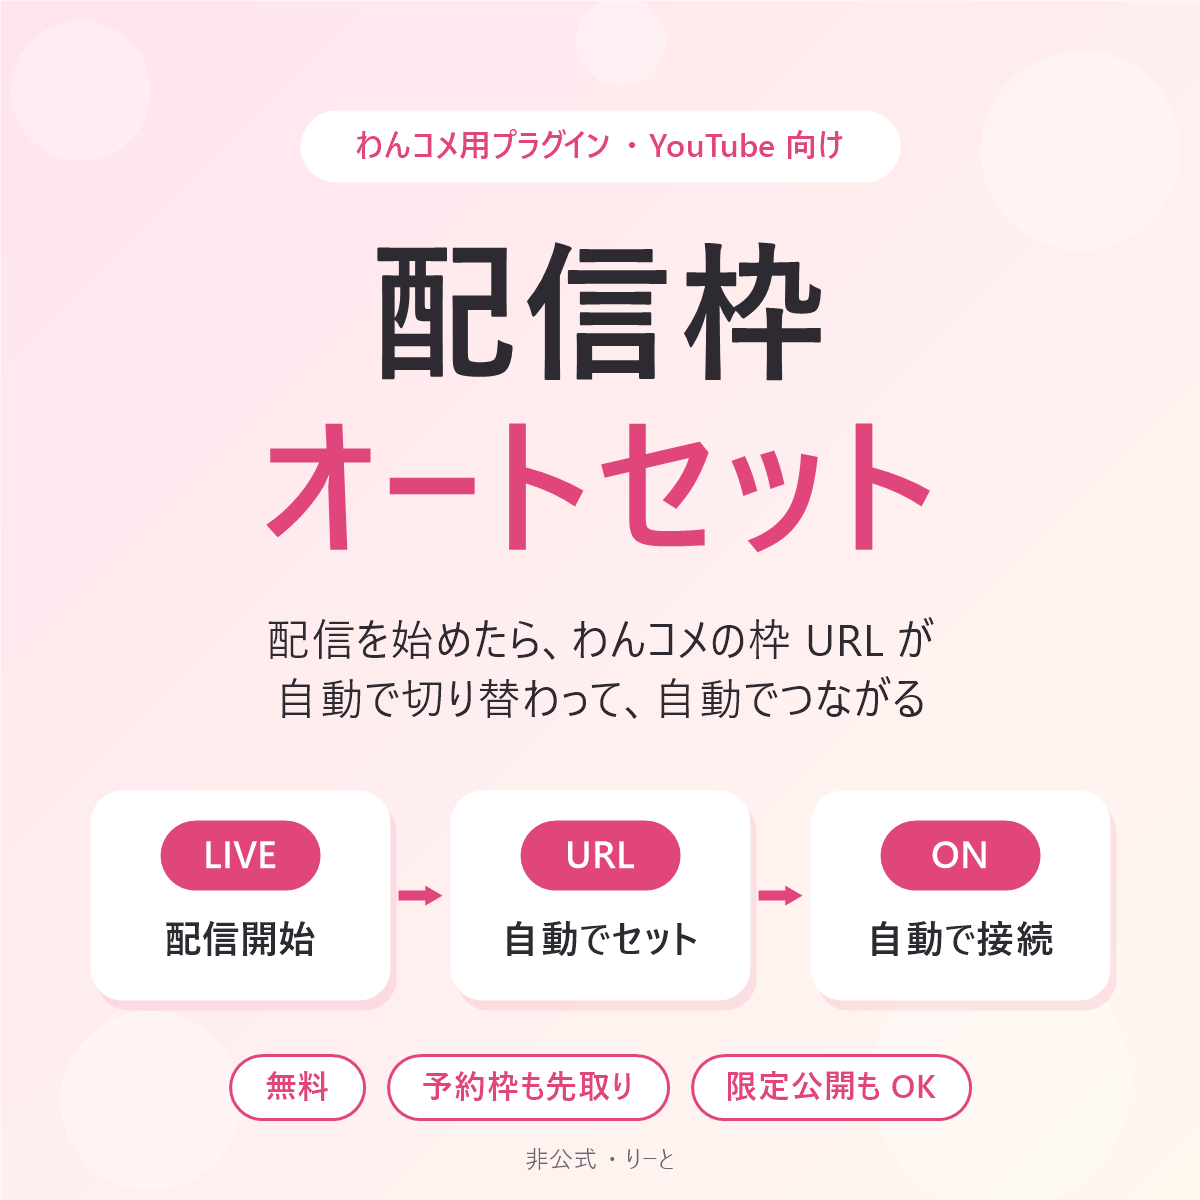
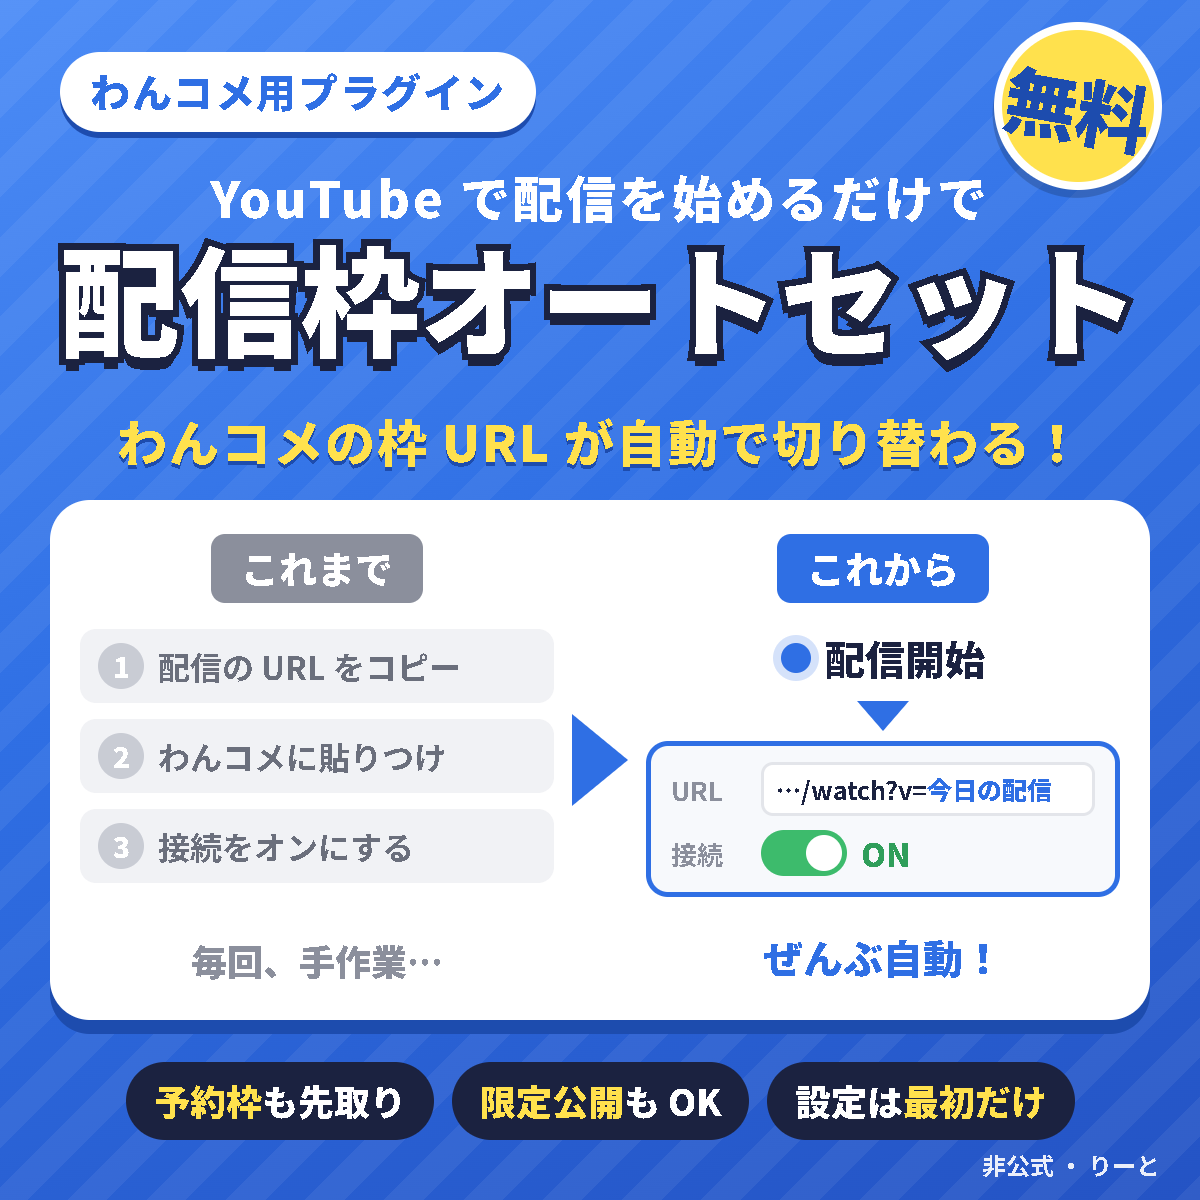
docs(booth): 商品画像を作り直す
BOOTH で人気のわんコメプラグインの傾向（濃い背景・極太の商品名・Before/After）に合わせ、青の配色で作り直した。
画像は HTML（thumbnail.html）からヘッドレス Edge で書き出す。フォントは Noto Sans JP（OFL）。

diff --git a/docs/booth/thumbnail.html b/docs/booth/thumbnail.html
@@ -1,0 +1,177 @@
+<!doctype html>
+<html lang="ja">
+<head>
+<meta charset="utf-8">
+<style>
+  @font-face { font-family: "NotoJP"; src: local("Noto Sans JP Black"), local("NotoSansJP-Black"); font-weight: 900; }
+  @font-face { font-family: "NotoJP"; src: local("Noto Sans JP Bold"), local("NotoSansJP-Bold"); font-weight: 700; }
+  @font-face { font-family: "NotoJP"; src: local("Noto Sans JP Medium"), local("NotoSansJP-Medium"); font-weight: 500; }
+  :root {
+    --pink: #2f6fe4;
+    --pink-d: #1d4cae;
+    --bg1: #4c8cf6;
+    --bg2: #2453c4;
+    --halo: rgba(47,111,228,.2);
+    --hl: #ffe14d;
+    --chiphl: #ffe14d;
+    --navy: #1b2240;
+    --yellow: #ffe14d;
+    --gray: #8b8f9c;
+  }
+  * { box-sizing: border-box; margin: 0; padding: 0; }
+  html, body { width: 1200px; height: 1200px; }
+  body {
+    font-family: "NotoJP", "Noto Sans JP", sans-serif;
+    background:
+      repeating-linear-gradient(135deg, rgba(255,255,255,.06) 0 28px, transparent 28px 56px),
+      linear-gradient(160deg, var(--bg1) 0%, var(--pink) 45%, var(--bg2) 100%);
+    color: var(--navy);
+    position: relative;
+    overflow: hidden;
+  }
+
+  .label {
+    position: absolute; left: 60px; top: 52px;
+    background: #fff; color: var(--pink);
+    font-weight: 900; font-size: 40px; letter-spacing: .04em;
+    padding: 10px 30px 12px; border-radius: 999px;
+    box-shadow: 0 6px 0 var(--pink-d);
+  }
+  .free {
+    position: absolute; right: 38px; top: 22px;
+    width: 168px; height: 168px; border-radius: 50%;
+    background: var(--yellow); color: var(--pink-d);
+    display: flex; align-items: center; justify-content: center; flex-direction: column;
+    font-weight: 900; transform: rotate(10deg);
+    box-shadow: 0 8px 0 rgba(0,0,0,.18);
+    border: 8px solid #fff;
+  }
+  .free .big { font-size: 74px; line-height: 1; }
+  .free .small { font-size: 26px; line-height: 1.2; margin-top: 4px; color: var(--navy); }
+
+  .catch {
+    position: absolute; left: 0; right: 0; top: 160px; text-align: center;
+    color: #fff; font-weight: 900; font-size: 50px; letter-spacing: .06em;
+  }
+  .title {
+    position: absolute; left: 0; right: 0; top: 232px; text-align: center;
+    font-weight: 900; font-size: 120px; line-height: 1.08; letter-spacing: 0;
+    color: #fff;
+    -webkit-text-stroke: 13px var(--navy);
+    paint-order: stroke fill;
+    text-shadow: 0 12px 0 var(--navy);
+  }
+  .sub {
+    position: absolute; left: 0; right: 0; top: 404px; text-align: center;
+    color: var(--hl); font-weight: 900; font-size: 50px; letter-spacing: .04em;
+    text-shadow: 0 4px 0 var(--pink-d);
+  }
+
+  .panel {
+    position: absolute; left: 50px; right: 50px; top: 500px; height: 520px;
+    background: #fff; border-radius: 40px;
+    box-shadow: 0 14px 0 var(--pink-d);
+    display: flex; align-items: stretch; padding: 34px 30px; gap: 0;
+  }
+  .side { flex: 1; display: flex; flex-direction: column; align-items: center; }
+  .tag {
+    font-weight: 900; font-size: 38px; color: #fff; padding: 6px 30px 8px; border-radius: 14px;
+  }
+  .before .tag { background: var(--gray); }
+  .after .tag { background: var(--pink); }
+  .steps { margin-top: 26px; width: 100%; display: flex; flex-direction: column; gap: 16px; }
+  .step {
+    display: flex; align-items: center; gap: 14px;
+    background: #f1f2f5; border-radius: 16px; padding: 14px 18px;
+    font-weight: 700; font-size: 32px; color: #6b6f7c;
+  }
+  .num {
+    flex: none; width: 46px; height: 46px; border-radius: 50%; background: #c9ccd4; color: #fff;
+    display: flex; align-items: center; justify-content: center; font-weight: 900; font-size: 28px;
+  }
+  .sigh { margin-top: auto; font-weight: 900; font-size: 36px; color: var(--gray); }
+
+  .arrow {
+    flex: none; width: 92px; display: flex; align-items: center; justify-content: center;
+  }
+  .arrow div {
+    width: 0; height: 0; border-top: 46px solid transparent; border-bottom: 46px solid transparent;
+    border-left: 56px solid var(--pink);
+  }
+
+  .live {
+    margin-top: 26px; display: flex; align-items: center; gap: 14px;
+    font-weight: 900; font-size: 40px; color: var(--navy);
+  }
+  .dot { width: 30px; height: 30px; border-radius: 50%; background: var(--pink); box-shadow: 0 0 0 8px var(--halo); }
+  .down { margin: 14px 0 10px; width: 0; height: 0; border-left: 26px solid transparent; border-right: 26px solid transparent; border-top: 30px solid var(--pink); }
+  .card {
+    width: 100%; border: 5px solid var(--pink); border-radius: 22px; padding: 16px 20px;
+    display: flex; flex-direction: column; gap: 14px; background: #f7f9fc;
+  }
+  .row { display: flex; align-items: center; gap: 14px; font-weight: 700; font-size: 30px; }
+  .row .k { flex: none; color: var(--gray); font-size: 26px; width: 76px; }
+  .url {
+    flex: 1; background: #fff; border: 3px solid #e3e5ea; border-radius: 12px; padding: 6px 12px;
+    font-size: 25px; color: var(--navy); white-space: nowrap; overflow: hidden;
+  }
+  .url b { color: var(--pink); }
+  .toggle { width: 86px; height: 46px; border-radius: 999px; background: #3dbb6c; position: relative; flex: none; }
+  .toggle::after { content: ""; position: absolute; right: 5px; top: 5px; width: 36px; height: 36px; border-radius: 50%; background: #fff; }
+  .on { font-weight: 900; color: #2f9e5a; font-size: 32px; }
+  .yay { margin-top: auto; font-weight: 900; font-size: 40px; color: var(--pink); }
+
+  .chips {
+    position: absolute; left: 0; right: 0; top: 1062px;
+    display: flex; justify-content: center; gap: 18px;
+  }
+  .chip {
+    background: var(--navy); color: #fff; font-weight: 900; font-size: 36px;
+    padding: 12px 28px 14px; border-radius: 999px;
+  }
+  .chip em { font-style: normal; color: var(--chiphl); }
+  .foot {
+    position: absolute; right: 40px; bottom: 18px; color: rgba(255,255,255,.9);
+    font-weight: 700; font-size: 24px;
+  }
+</style>
+</head>
+<body>
+  <div class="label">わんコメ用プラグイン</div>
+  <div class="free"><span class="big">無料</span></div>
+
+  <div class="catch">YouTube で配信を始めるだけで</div>
+  <div class="title">配信枠オートセット</div>
+  <div class="sub">わんコメの枠 URL が自動で切り替わる！</div>
+
+  <div class="panel">
+    <div class="side before">
+      <div class="tag">これまで</div>
+      <div class="steps">
+        <div class="step"><span class="num">1</span>配信の URL をコピー</div>
+        <div class="step"><span class="num">2</span>わんコメに貼りつけ</div>
+        <div class="step"><span class="num">3</span>接続をオンにする</div>
+      </div>
+      <div class="sigh">毎回、手作業…</div>
+    </div>
+    <div class="arrow"><div></div></div>
+    <div class="side after">
+      <div class="tag">これから</div>
+      <div class="live"><span class="dot"></span>配信開始</div>
+      <div class="down"></div>
+      <div class="card">
+        <div class="row"><span class="k">URL</span><span class="url">…/watch?v=<b>今日の配信</b></span></div>
+        <div class="row"><span class="k">接続</span><span class="toggle"></span><span class="on">ON</span></div>
+      </div>
+      <div class="yay">ぜんぶ自動！</div>
+    </div>
+  </div>
+
+  <div class="chips">
+    <span class="chip"><em>予約枠</em>も先取り</span>
+    <span class="chip"><em>限定公開</em>も OK</span>
+    <span class="chip">設定は<em>最初だけ</em></span>
+  </div>
+  <div class="foot">非公式 ・ りーと</div>
+</body>
+</html>
